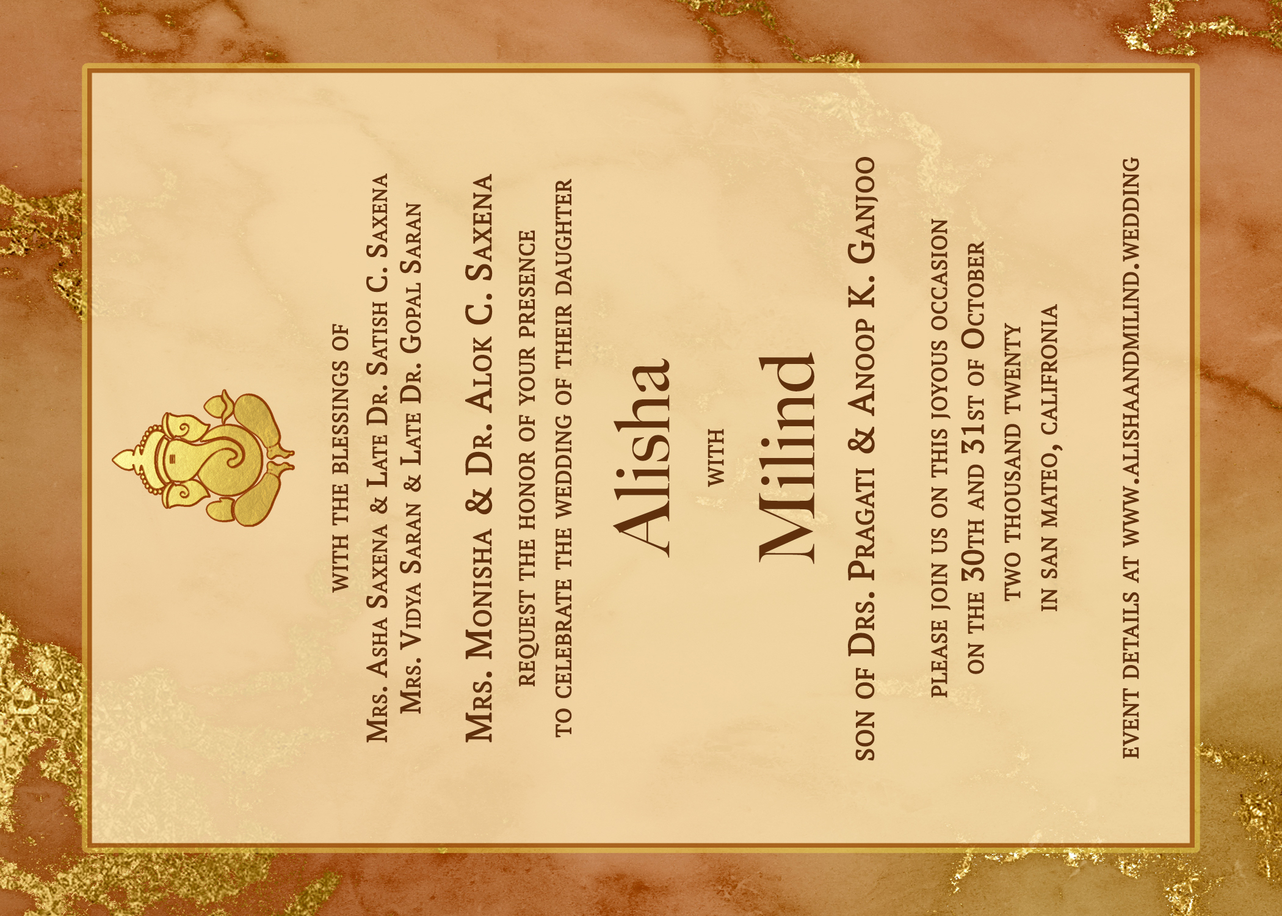
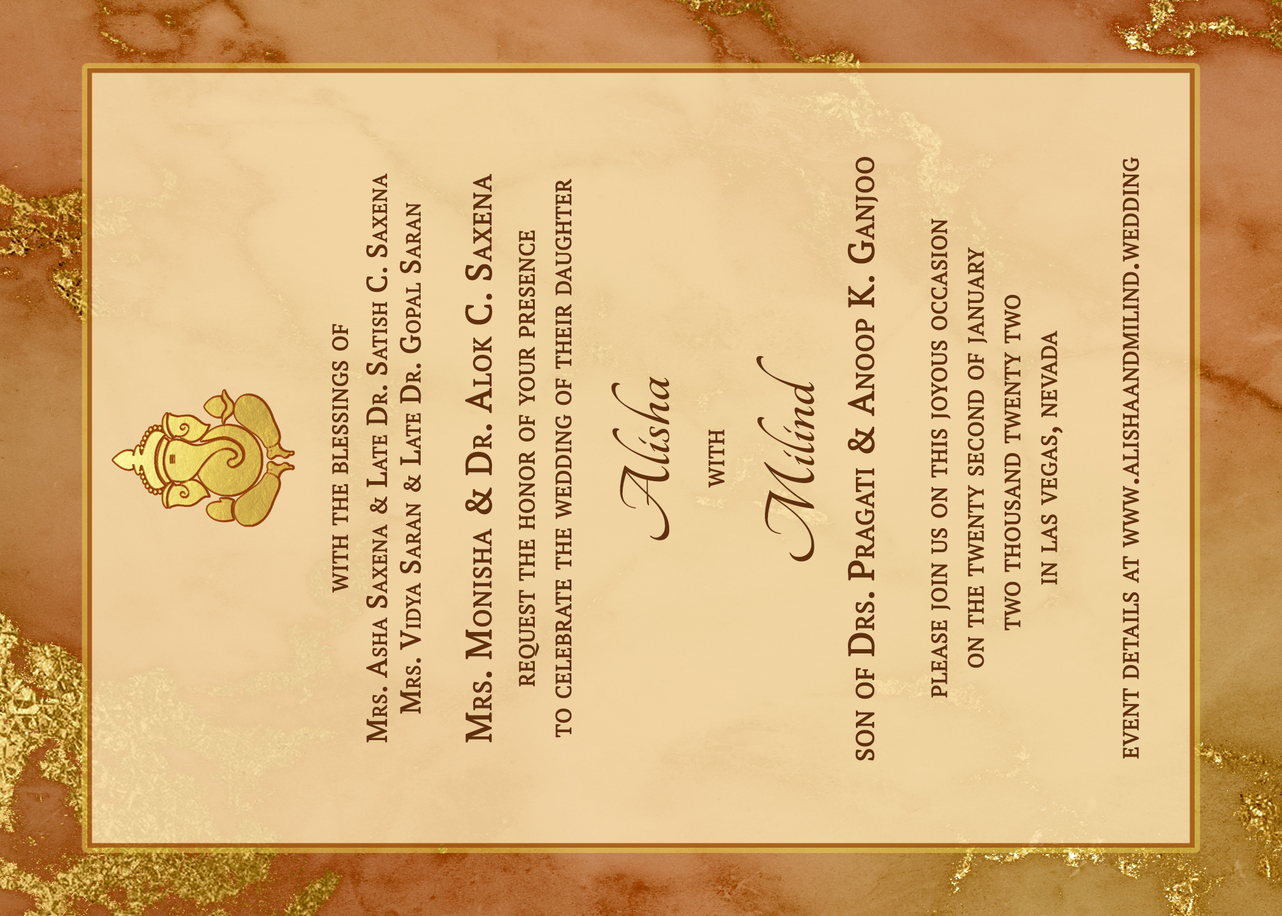
Update fonts and invitation (#846)

Changed region(s): [[0.7429, 0.276, 0.8357, 0.736], [0.5881, 0.368, 0.65, 0.6133], [0.4643, 0.3987, 0.5262, 0.6133]]

diff --git a/website/src/components/ui/Header.tsx b/website/src/components/ui/Header.tsx
@@ -48,7 +48,7 @@ const Header: React.FC<HeaderProps> = ({ links }) => {
     <header className="sticky top-0 z-10 border-b h-bg-colors border-subtle sm:static sm:z-0 dark:border-subtle-night print:static">
       <div className="relative">
         <div className="py-3 text-center sm:pt-4 sm:pb-2">
-          <h1 className="font-display text-2xl sm:text-3xl">
+          <h1 className="font-script font-bold text-3xl sm:text-4xl">
             <Link to="/" className="px-1 c-link-focus">
               {displayTitle}
             </Link>

diff --git a/website/src/components/partials/rsvp/RsvpGuestsSection.tsx b/website/src/components/partials/rsvp/RsvpGuestsSection.tsx
@@ -90,8 +90,7 @@ const RsvpGuestsSection = React.forwardRef<HTMLHeadingElement>(
         {values.attending === "yes" && (
           <SingleCheckbox
             name="declaration"
-            groupLabel="COVID declaration"
-            groupLabelType="aria"
+            groupLabel="COVID acknowledgment"
             disabled={values.attending !== "yes"}
             optionLabel={
               `${invitation.numGuests > 1 ? "We" : "I"} understand that ${

diff --git a/website/tailwind.config.js b/website/tailwind.config.js
@@ -116,8 +116,7 @@ module.exports = {
       fontFamily: {
         sans: ["Raleway", ...defaultTheme.fontFamily.sans],
         serif: ["EB Garamond", ...defaultTheme.fontFamily.serif],
-        display: ["Playfair Display", ...defaultTheme.fontFamily.serif],
-        script: ["Arizonia", ...defaultTheme.fontFamily.serif],
+        script: ["Tangerine", ...defaultTheme.fontFamily.serif],
       },
       backgroundImage: {
         "hero-pattern":

diff --git a/website/src/components/partials/rsvp/RsvpInfo.tsx b/website/src/components/partials/rsvp/RsvpInfo.tsx
@@ -35,7 +35,10 @@ const RsvpInfo: React.FC<RsvpInfoProps> = ({ handleEditRsvp }) => {
             size="l"
           />
           <div className="mx-2 text-center">
-            <h2 className="font-display mb-1 text-2xl" id="rsvp-info-name">
+            <h2
+              className="font-sans font-semibold mb-1 text-2xl"
+              id="rsvp-info-name"
+            >
               {invitation.partyName}
             </h2>
             <p

diff --git a/website/src/components/partials/InvitationCard.tsx b/website/src/components/partials/InvitationCard.tsx
@@ -194,7 +194,7 @@ const InvitationCardInner: React.FC<InvitationCardInnerProps> = ({
                 styles.front_base
               )}
             >
-              <p className="font-serif text-lg text-yellow-200 text-center sm:text-xl">
+              <p className="font-script text-2xl tracking-wide text-yellow-200 text-center sm:text-3xl">
                 {invitation.partyName}
               </p>
             </div>

diff --git a/website/gatsby-browser.js b/website/gatsby-browser.js
@@ -1,5 +1,4 @@
-import "typeface-playfair-display" // site header font
-import "typeface-arizonia" // script font
+import "typeface-tangerine" // script font
 import "typeface-raleway" // sans serif font
 import "typeface-eb-garamond" // serif font
 import "./src/styles/global.css"

diff --git a/website/src/components/partials/rsvp/RsvpForm.module.css b/website/src/components/partials/rsvp/RsvpForm.module.css
@@ -1,5 +1,5 @@
 .section_heading {
-  @apply font-display mb-1 text-xl;
+  @apply font-sans mb-1 text-xl;
 }
 
 .section_subheading {
